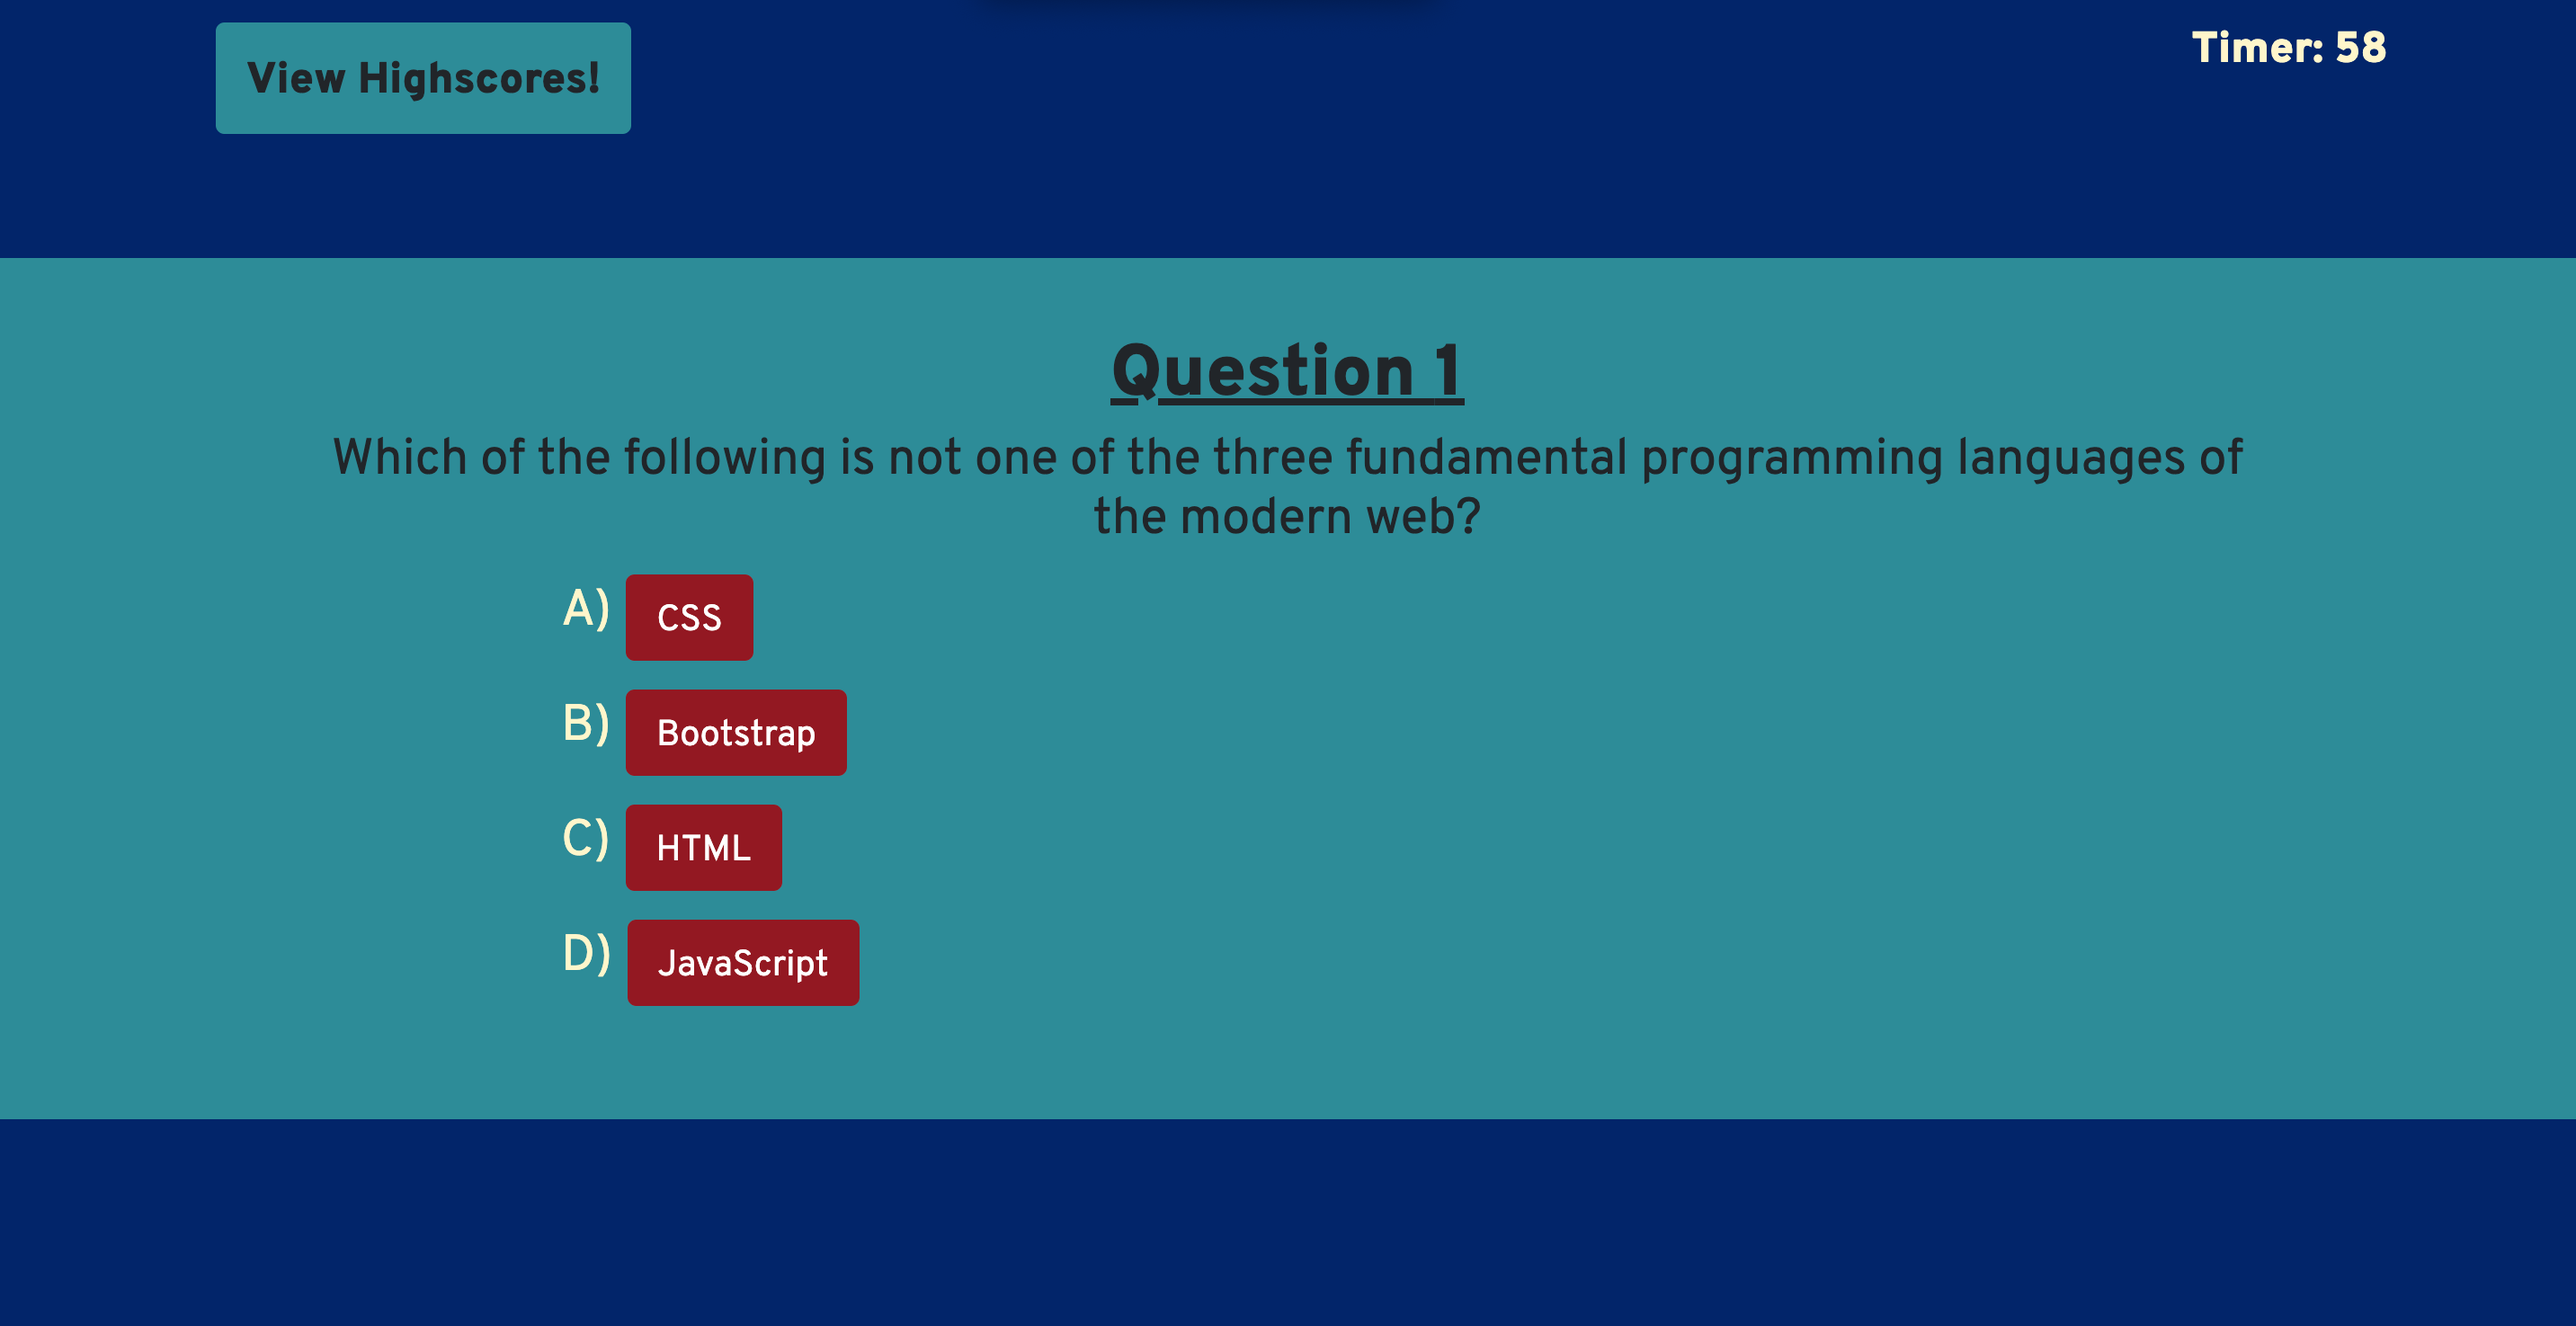
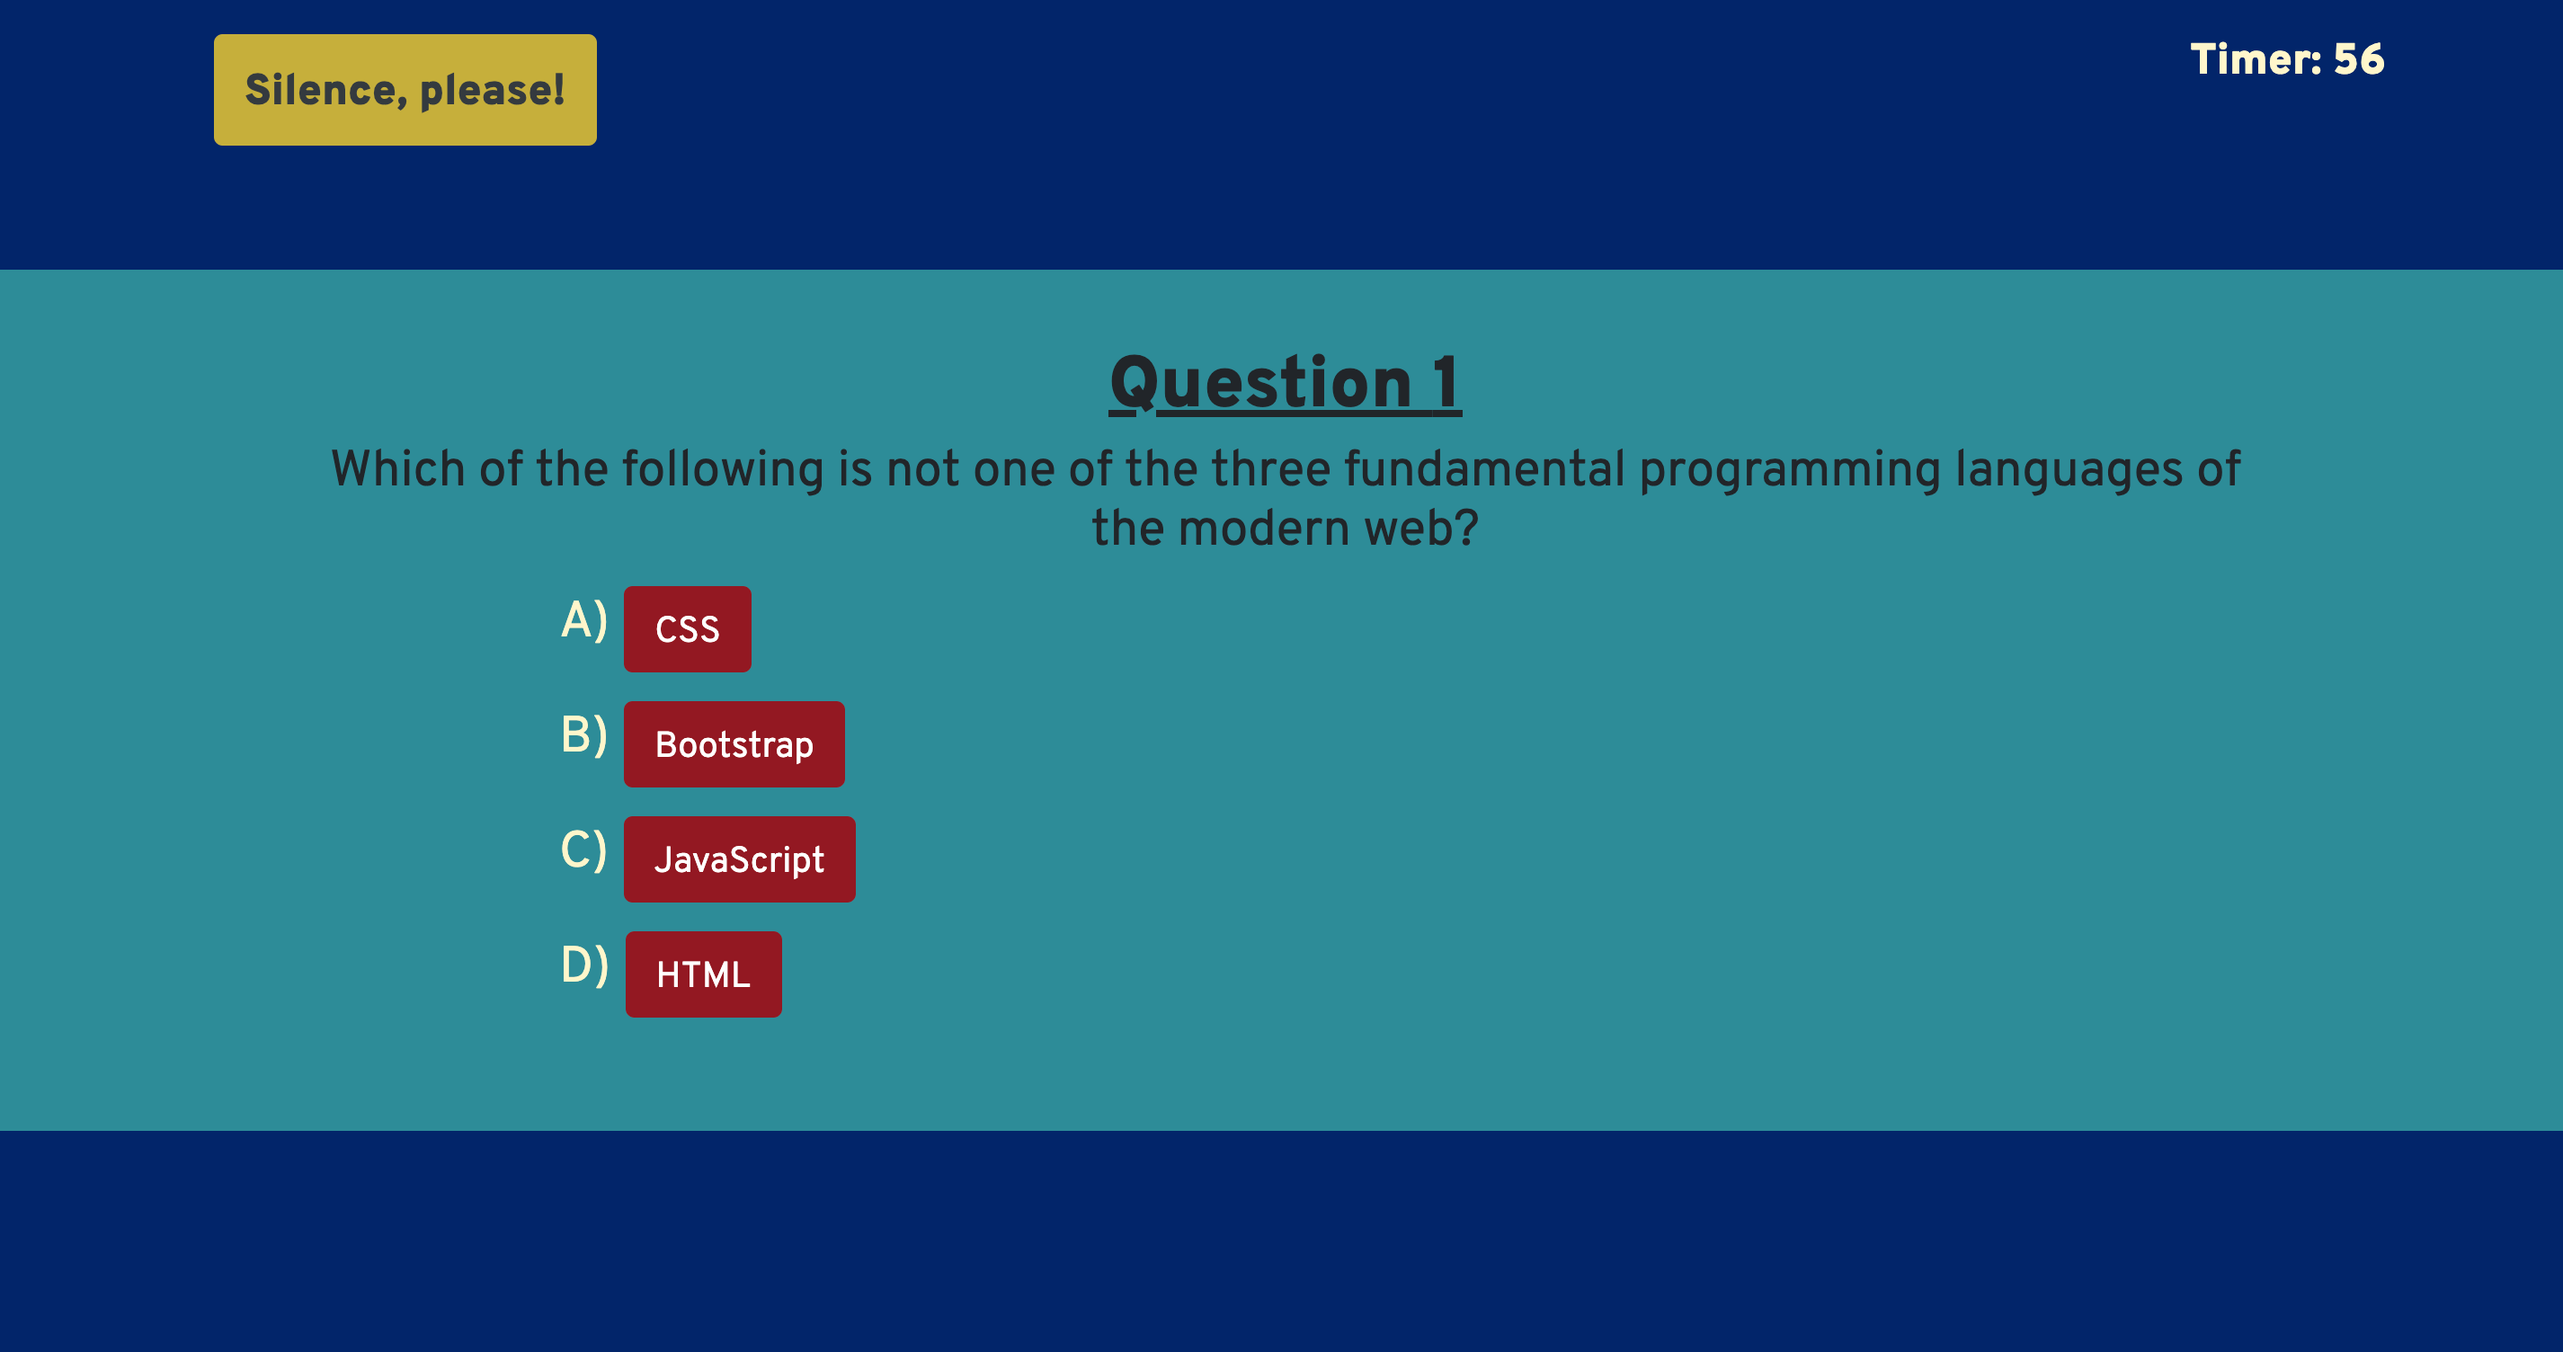
Edited my readme file

diff --git a/script.js b/script.js
@@ -186,18 +186,6 @@ function setOptions() {
     };
 };
 
-/* When called, this function displays the finished message, final score, and initials submission 
-   on the screen and stops the music if the music is still being played */
-function finished() {
-    hide(questionBlock);
-    hide(stopMusic);
-    hide(outcome);
-    reveal(scoreBtn);
-    reveal(finish);
-    finalScore.textContent = score;
-    jeopardy.pause();
-};
-
 // When called, this function displays the next question in the allQuestions array  
 function nextQuestion() {
     hide(outcome);
@@ -220,12 +208,26 @@ function nextQuestion() {
     };
 };
 
+/* When called, this function displays the finished message, final score, and initials submission 
+   on the screen and stops the music if the music is still being played */
+function finished() {
+    hide(questionBlock);
+    hide(stopMusic);
+    hide(outcome);
+    reveal(scoreBtn);
+    reveal(finish);
+    finalScore.textContent = score;
+    jeopardy.pause();
+};
+
 // When called, this function displays the highscores table
 function scoreTable() {
     hide(scoreBtn);
     hide(stopMusic);
     reveal(restart);
-    clearScore();
+
+    // Resets the highscore table so that no scores are repeated
+    table.innerHTML = "";
 
     // Fetches the previous high scores from local storage
     var playersArr = JSON.parse(localStorage.getItem("players"));
@@ -249,26 +251,7 @@ function scoreTable() {
     };
 };
 
-// Resets the highscore table so that no scores are repeated
-function clearScore () {
-    table.innerHTML="";
-};
-
-
[1 lines of base64/hex data omitted]
-
-/* At any point in the quiz, if the player clicks the view highscores button, they will exit the quiz,
-   the timerInterval will be cleared, and the highscores table will be displayed */
-scoreBtn.addEventListener("click", function() {
-    scoreTable();
-    hide(homepage);
-    hide(questionBlock);
-    hide(outcome);
-    hide(finish);
-    reveal(scoreBlock);
-    clearInterval(timerInterval);
-    timer.textContent = 0;
-})
 
 /* When the start button is clicked, the first question is displayed, background music begins to play, and 
    the counter begins counting down from 60. Once the counter reaches 0, the finished section is displayed */
@@ -291,6 +274,19 @@ start.addEventListener("click", function() {
             finished();
         };
     }, 1000); 
+});
+
+/* At any point in the quiz, if the player clicks the view highscores button, they will exit the quiz,
+   the timerInterval will be cleared, and the highscores table will be displayed */
+scoreBtn.addEventListener("click", function() {
+    scoreTable();
+    hide(homepage);
+    hide(questionBlock);
+    hide(outcome);
+    hide(finish);
+    reveal(scoreBlock);
+    clearInterval(timerInterval);
+    timer.textContent = 0;
 });
 
 // When clicked, this button stops the background music from playing and replaces the button with the 'View Highscores' button

diff --git a/index.html b/index.html
@@ -15,7 +15,7 @@
             <div class="col-8">
                 <!--Each of these buttons display at different times and perform different functions when clicked-->
                 <button class="ml-3 btn btn-lg" id="high-score"><h4 class="pt-2 font-weight-bold">View Highscores!</h4></button>
-                <button class="ml-3 btn btn-lg" id="stop-music"><h4 class="pt-2 font-weight-bold">Silence, please!</h4></button>
+                <button class="ml-3 btn btn-lg" id="stop-music"><h4 class="pt-2 font-weight-bold text-dark">Silence, please!</h4></button>
                 <button class="ml-3 btn btn-lg ruby" id="restart"><h4 class="pt-2 font-weight-bold text-white">Play Again</h4></button>
             </div>
             <div class="col-4">

diff --git a/style.css b/style.css
@@ -24,7 +24,6 @@ header {
 
 #stop-music {
     background-color: #c6af2e;
-    color: #03256c;
 }
 
 #stop-music:hover {

diff --git a/README.md b/README.md
@@ -8,7 +8,7 @@ One of the features of this quiz that I am very proud of is that each time you t
 
 I also utilized local storage to hold the data of user's initials and their score. The local storage will hold the 10 highest scores played on a user's device, and display them on the Highscores board.
 
-I used Bootstrap to help make the layout responsive, but also added in some of my own CSS styles to make the quiz page look interesting. I found a great website, Coolors.io, that generates color schemes, and used it to choose colors for this quiz page. I also took the font, Overpass, from Google fonts.
+I used Bootstrap to help make the layout responsive, but also added in some of my own CSS styles to make the quiz page look interesting. I found a great website, Coolors.io, that generates color schemes, and used it to choose colors for this quiz page. I also took the font, Overpass, from Google fonts. The background music is the theme from the popular TV game show, 'Jeopardy'.
 
 This coding quiz can be used in many ways. The most obvious would be to test someone's knowledge of HTML, CSS, and JavaScript. I believe it can also be used by me to show that I have a good understanding of basic JavaScript.
 
@@ -31,15 +31,15 @@ When you first get to the page, you will see a message describing the quiz and i
 
 ![Question screenshot](question.png)
 
-Each question will be formatted the same, with four options. If the user chooses the correct answer, the word 'Correct!' will be displayed in the bottom right of the screen. If the user chooses the wrong answer, the word 'Wrong' will be displayed. As stated in my description, each time a user takes the quiz, the answer options will be in a different order.
+When the user clicks start, the background music will begin to play, and the timer will begin counting down from 60. The 'View Highscores!' button will be replaced with a new button that allows the user to switch off the music if they'd rather take the quiz in silence. Each question will be formatted the same, with four options. If the user chooses the correct answer, the word 'Correct!' will be displayed in the bottom right of the screen. If the user chooses the wrong answer, the word 'Wrong' will be displayed. As stated in my description, each time a user takes the quiz, the answer options will be in a different order.
 
 ![Finished screenshot](finished.png)
 
-When the user runs out of time, or finishes answering all questions, they will be presented with their final score, and the option of entering their initials to be displayed on the Highscores board. 
+When the user runs out of time, or finishes answering all questions, the music will stop playing (if they didn't turn the music off earlier), and they will be presented with their final score and the option of entering their initials to be displayed on the Highscores board. 
 
 ![Highscores Board screenshot](highscores.png)
 
-Once the user has submitted their initials, or if at any time the user hits the 'View Highscores' button, they will be taken to the Highscores Board. This page will display up to the 10 highest scores played on that user's device. This data is stored in local storage as an array of objects.
+Once the user has submitted their initials, or if at any time the user hits the 'View Highscores' button, they will be taken to the Highscores Board. This page will display up to the 10 highest scores played on that user's device. This data is stored in local storage as an array of objects. The algorithm dynamically creates the objects by setting them to the index of the length of the array.
 
 ## Credits
 
@@ -55,7 +55,7 @@ I utilized the website coolors.io to generate a color scheme.
 
 https://coolors.co/
 
-In addition to what I have learned from my bootcamp, I also learned a great deal from the websites CodeCademy and FreeCodeCamp
+In addition to what I have learned from my bootcamp, I also learned a great deal from the websites CodeCademy and FreeCodeCamp.
 
 http://www.codecademy.com
 
